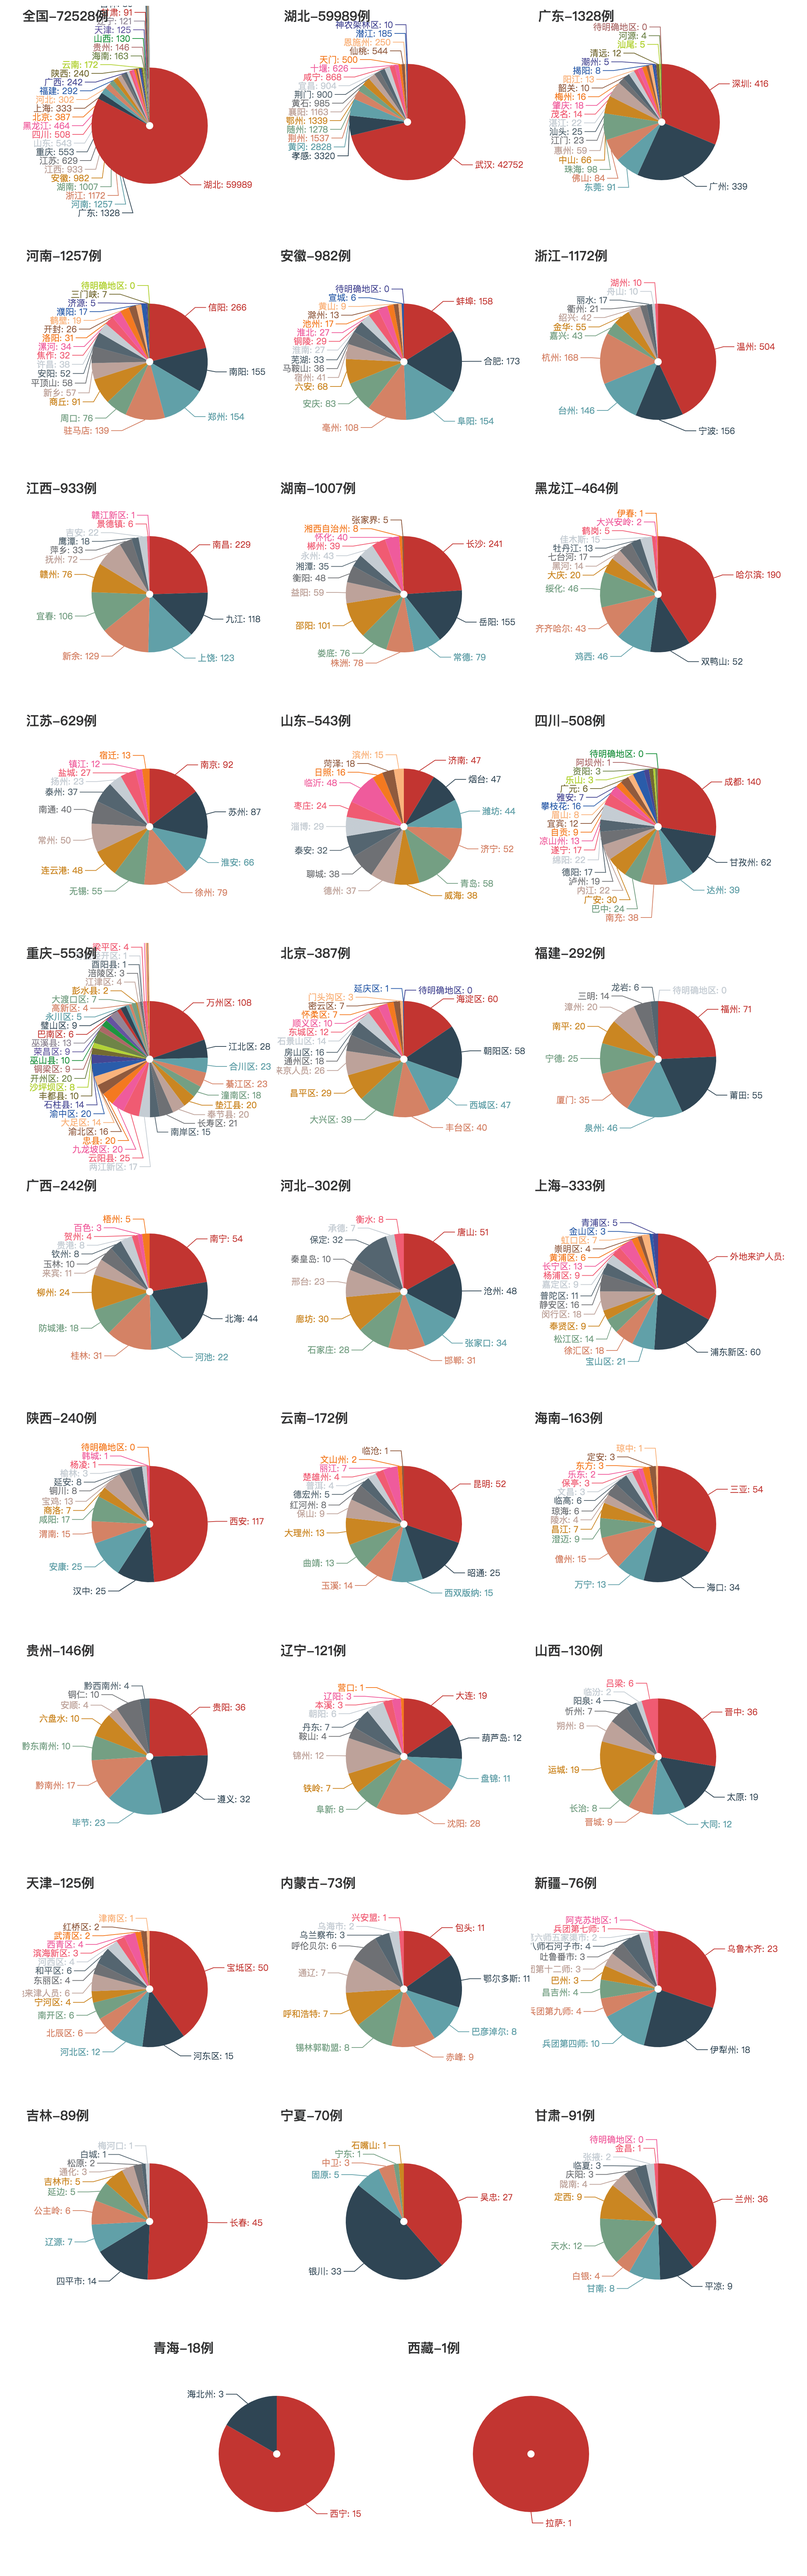
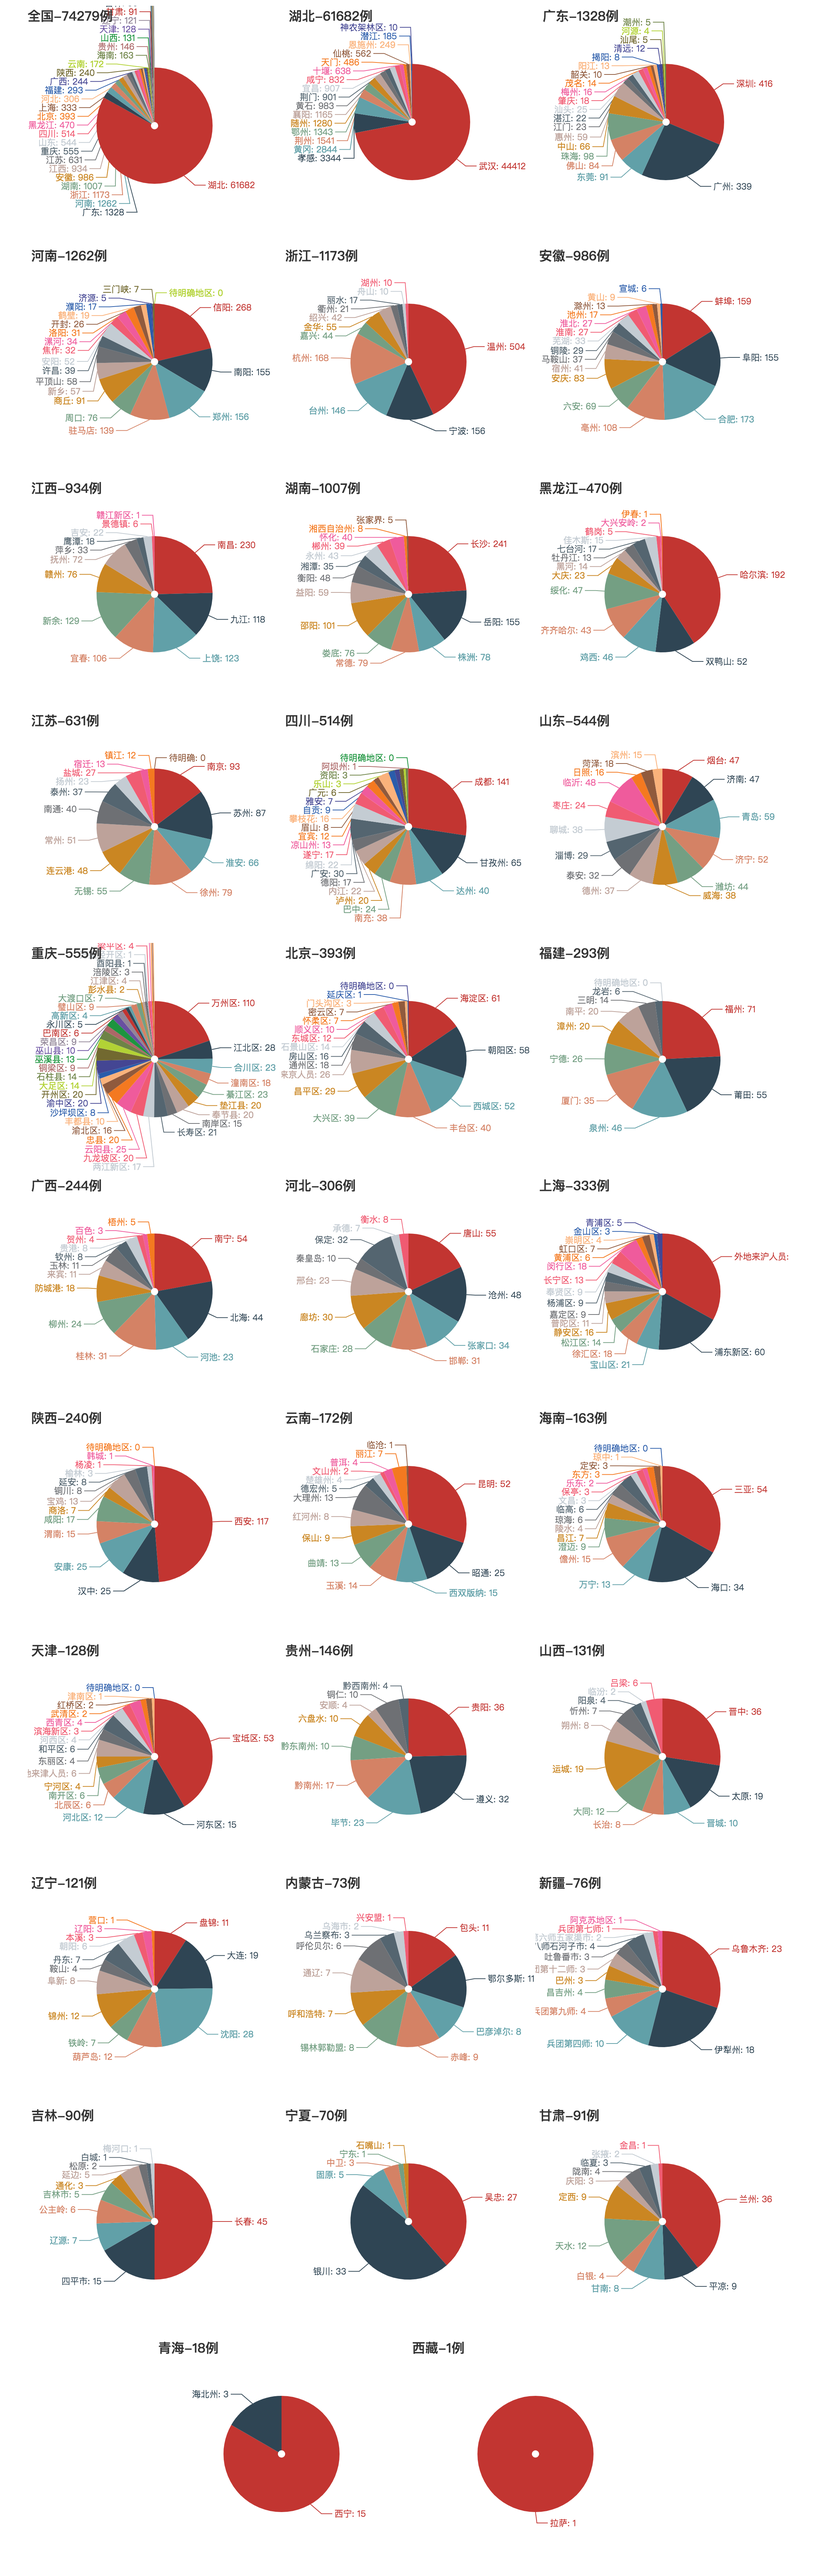
update result

diff --git a/main.py b/main.py
@@ -97,9 +97,9 @@ def draw_tendency(month, day):
     dates = ['1-%d' % i for i in range(22, 31 + 1)]
     dates.extend(['2-%02d' % i for i in range(1, day)])
     v0 = [131, 259, 444, 688, 769, 1771, 1459, 1737, 1982, 2102, 2590, 2829, 3235, 3887, 3143, 3399, 2656, 3062, 2478,
-          2015, 15152, 5090, 2641, 2009, 2051, 1886]
+          2015, 15152, 5090, 2641, 2009, 2051, 1886, 1749]
     v1 = [69, 105, 180, 323, 371, 1291, 840, 1032, 1220, 1347, 1921, 2103, 2345, 3156, 2447, 2841, 2147, 2618, 2097,
-          1638, 14840, 4823, 2420, 1843, 1933, 1807]
+          1638, 14840, 4823, 2420, 1843, 1933, 1807, 1693]
     v2 = [v0[i] - v1[i] for i in range(len(v0))]
     print(v2)
     c = (
@@ -261,7 +261,7 @@ def draw_multiple_pie(month, day):
 
 
 if __name__ == '__main__':
-    m, d = 2, 18
+    m, d = 2, 19
     get_html(m, d)
     draw_tendency(m, d)
     draw_multiple_pie(m, d)

diff --git a/README.md b/README.md
@@ -22,6 +22,7 @@
 - 更新：2020.2.16 10:16 湖北省新增病例连续3天下降，其他省份已经12连降。
 - 更新：2020.2.17 09:19
 - 更新：2020.2.18 10:13
+- 更新：2020.2.19 09:24
 
 # 全国/各省份疫情地图
 ![image](https://github.com/shadow12138/WuHanGanBaDei/blob/master/result/r1.png)
